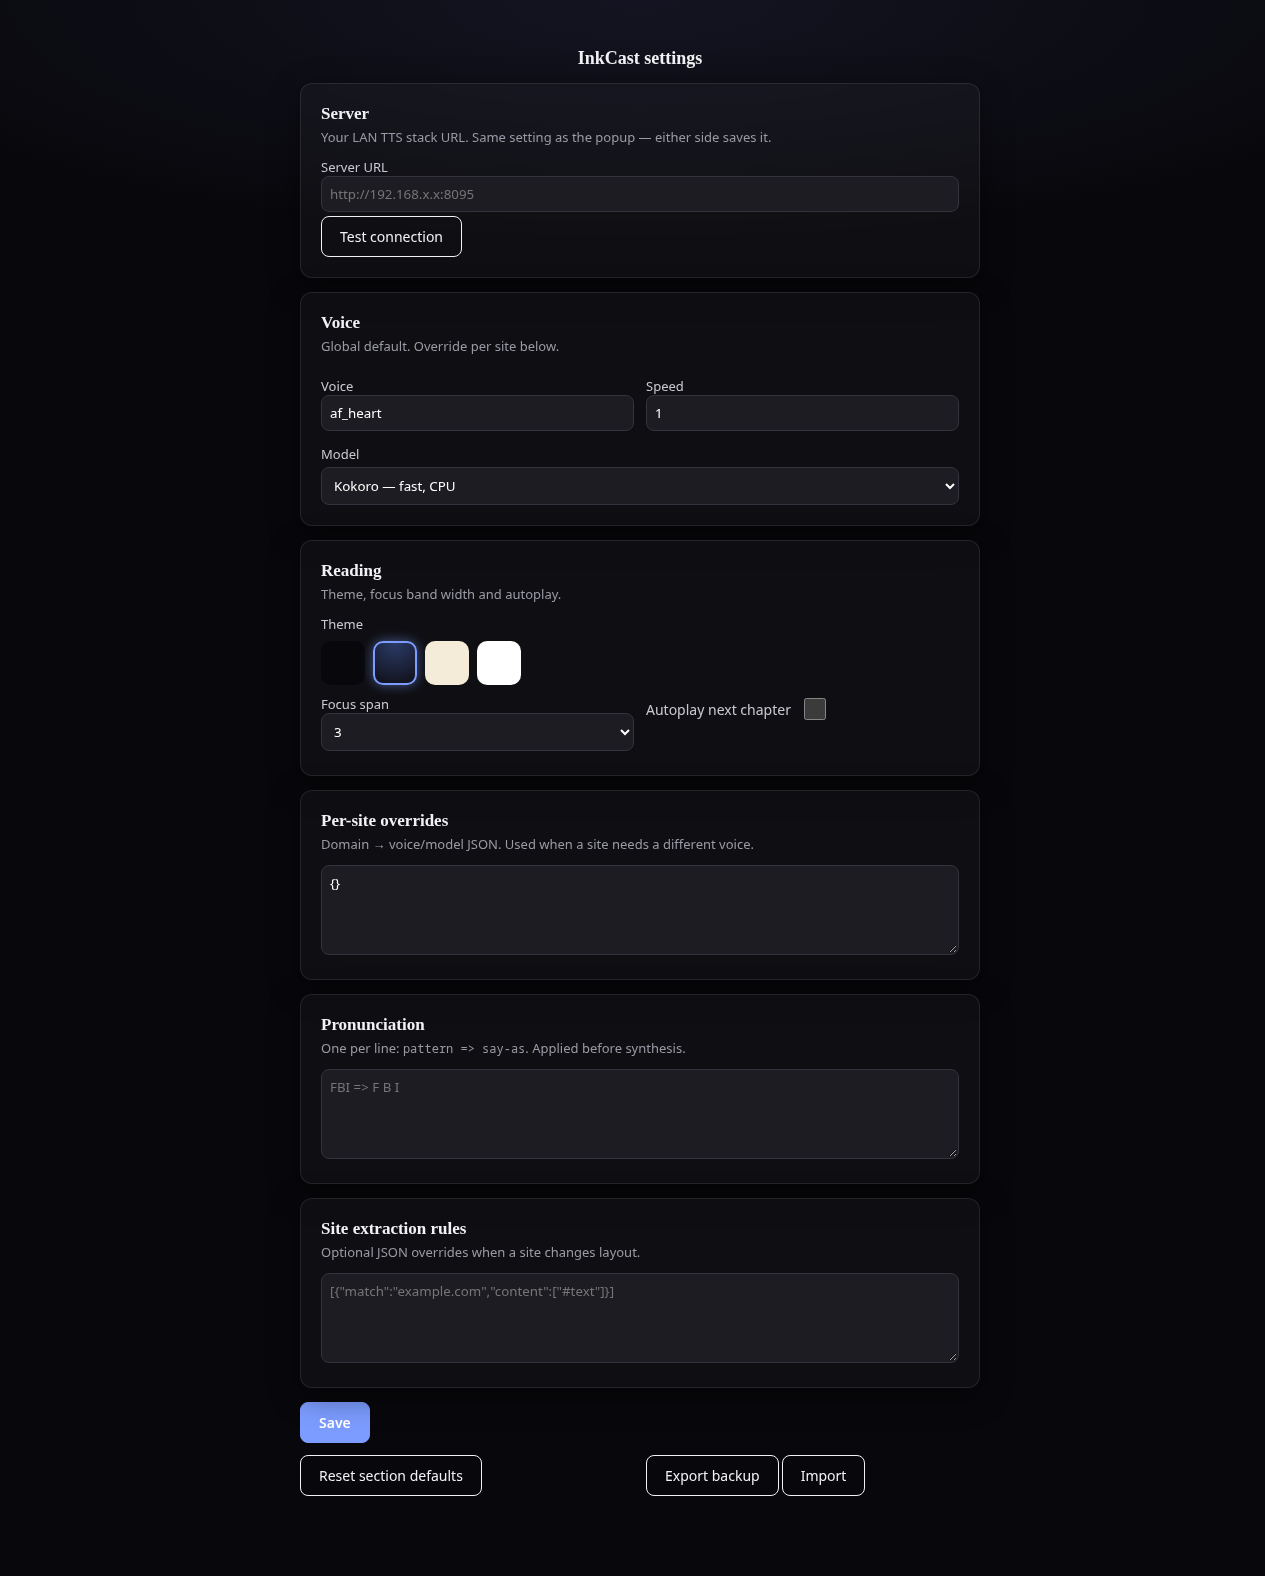
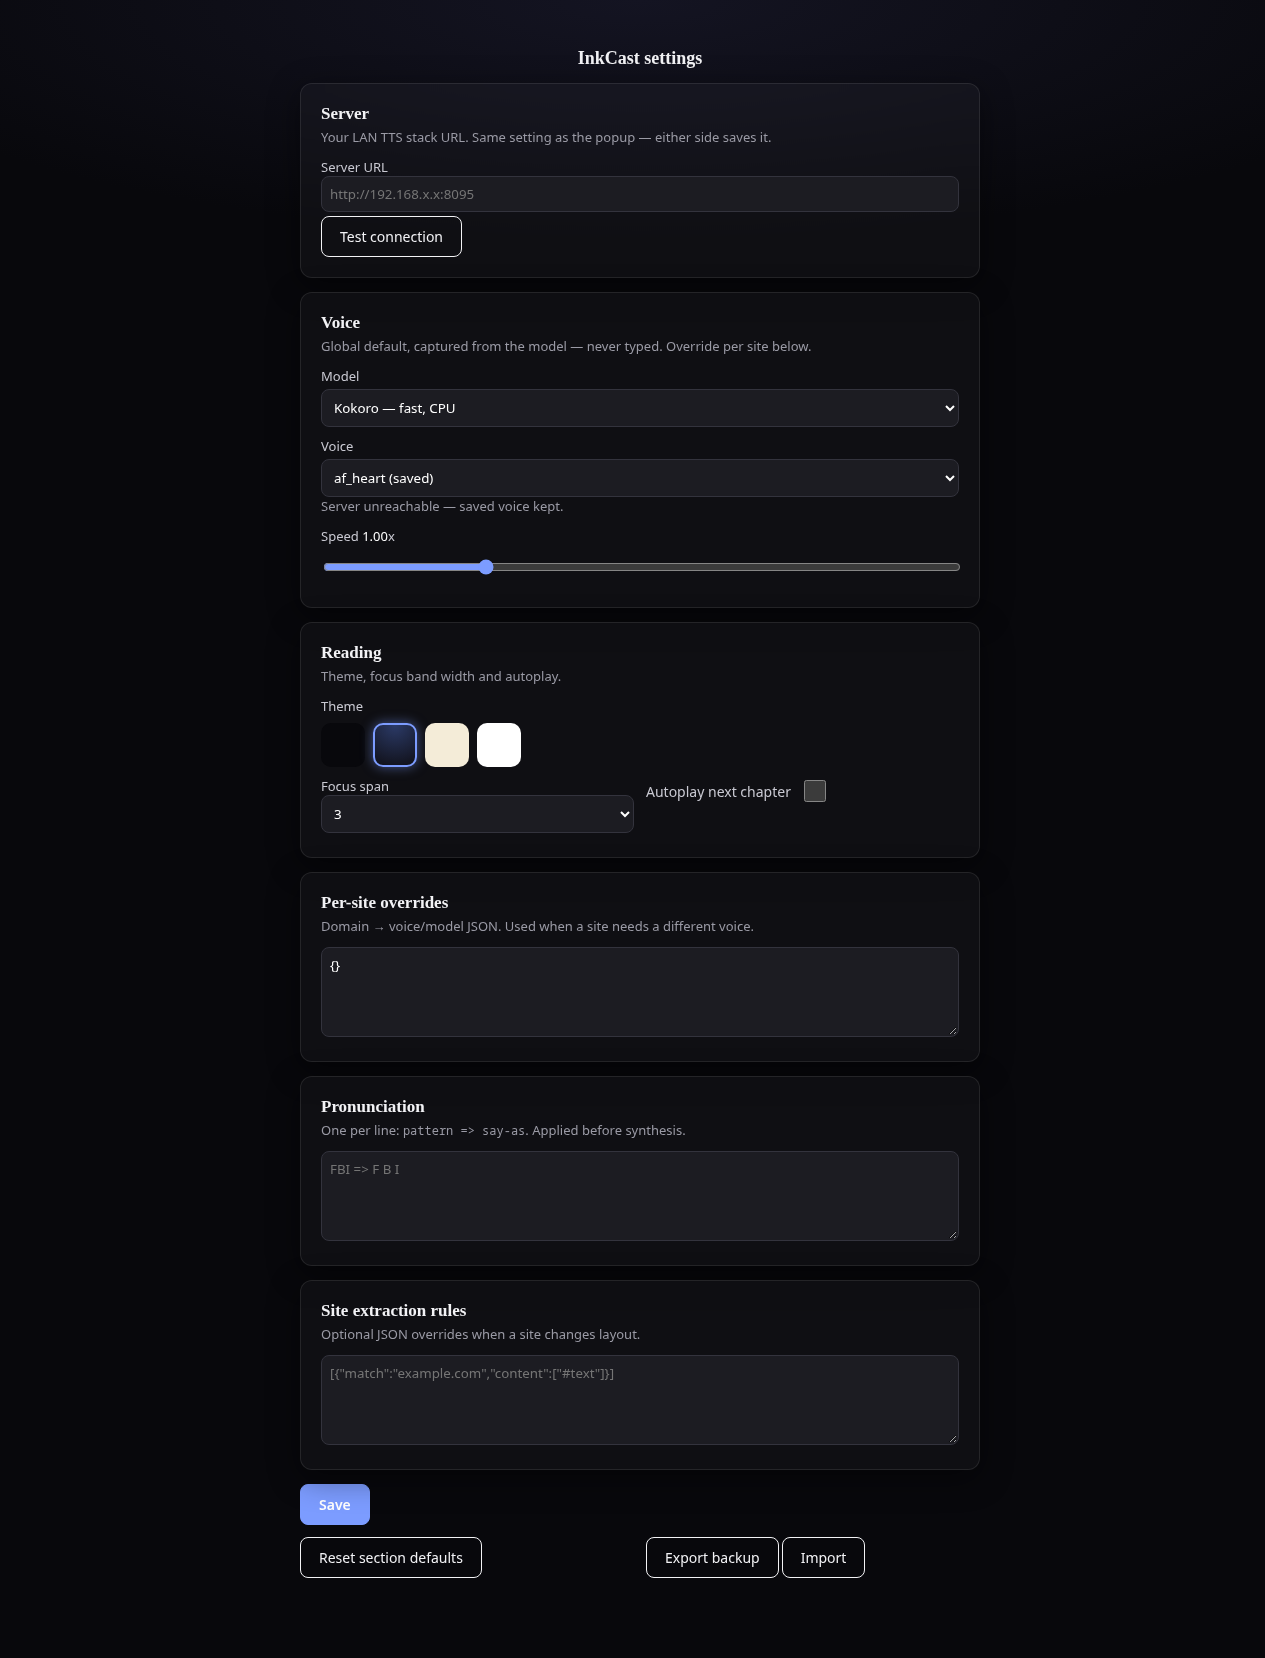
feat: voices from the model, speed slider, dead-UI purge
Options voice dropdown populated from GET /voices (engine
packs, filtered per model, offline-safe fallback); speed is a
live slider. Removed unwired karaoke UI, wired follow pill,
per-site voices at BOOT, pron dict end-to-end with cache
versioning, chapter nav buttons in bar. E2E green incl. 7s
auto-advance; 29 vitest + voices test green.

diff --git a/extension/entrypoints/options/main.ts b/extension/entrypoints/options/main.ts
@@ -11,6 +11,8 @@ h2 { font-size: 17px; margin: 28px 0 4px; }
 .card { background: rgba(255,255,255,0.03); border: 1px solid rgba(255,255,255,0.09); border-radius: 12px; padding: 20px; margin: 14px 0; backdrop-filter: blur(12px); -webkit-backdrop-filter: blur(12px); box-shadow: 0 8px 32px rgba(0,0,0,0.45); }
 label { display: block; font-size: 13px; margin: 10px 0 4px; color: #c9c9d2; font-family: system-ui, sans-serif; }
 input[type=text], input[type=number], select, textarea { width: 100%; box-sizing: border-box; background: #1c1c22; color: #fff; border: 1px solid #33333d; border-radius: 8px; padding: 8px; font-family: system-ui, sans-serif; }
+input[type=range] { width: 100%; accent-color: #7c9cff; height: 32px; }
+#speedval { font-variant-numeric: tabular-nums; color: #fff; }
 input[type=checkbox] { width: 22px; height: 22px; accent-color: #7c9cff; vertical-align: middle; }
 .check { display: flex; gap: 10px; align-items: center; font-size: 14px; font-family: system-ui, sans-serif; }
 .row { display: grid; grid-template-columns: 1fr 1fr; gap: 12px; }
@@ -42,16 +44,19 @@ async function main(): Promise<void> {
       <div class="row"><div><button id="testserver" class="ghost">Test connection</button></div><div><span id="srvstatus"></span></div></div>
     </div>
     <div class="card"><h2>Voice</h2>
-      <p class="sub">Global default. Override per site below.</p>
-      <div class="row">
-        <div><label>Voice<input id="voice" type="text" value="${esc(s.voice)}" /></div>
-        <div><label>Speed<input id="speed" type="number" step="0.1" min="0.5" max="2" value="${esc(s.speed)}" /></div>
-      </div>
+      <p class="sub">Global default, captured from the model — never typed. Override per site below.</p>
       <label>Model</label>
       <select id="model">
         <option value="kokoro"${s.model === 'kokoro' ? ' selected' : ''}>Kokoro — fast, CPU</option>
         <option value="chatterbox"${s.model === 'chatterbox' ? ' selected' : ''}>Chatterbox — expressive, GPU</option>
       </select>
+      <label>Voice</label>
+      <select id="voice">
+        <option value="${esc(s.voice)}" selected>${esc(s.voice)} (saved)</option>
+      </select>
+      <p class="sub" id="voicenote">Loading voices from the server…</p>
+      <label>Speed <span id="speedval">${esc(s.speed ?? 1)}</span>x</label>
+      <input id="speed" type="range" step="0.05" min="0.5" max="2.5" value="${esc(s.speed ?? 1)}" />
     </div>
     <div class="card"><h2>Reading</h2>
       <p class="sub">Theme, focus band width and autoplay.</p>
@@ -93,6 +98,60 @@ async function main(): Promise<void> {
     okEl.style.color = '#ff9d9d';
     okEl.textContent = line;
   }
+  // Voices captured from the model itself: list live, filtered by model.
+  // If the server is unreachable the saved value stays selectable.
+  const voiceSel = document.getElementById('voice') as HTMLSelectElement;
+  const modelSel = document.getElementById('model') as HTMLSelectElement;
+  const note = document.getElementById('voicenote')!;
+  async function refreshVoices(): Promise<void> {
+    const model = modelSel.value;
+    const keep = voiceSel.value || s.voice;
+    try {
+      const base = (document.getElementById('serverurl') as HTMLInputElement).value.trim().replace(/\/$/, '')
+        || s.serverUrl.replace(/\/$/, '');
+      if (!base) throw new Error('no server URL');
+      const r = await fetch(`${base}/voices`);
+      if (!r.ok) throw new Error(`HTTP ${r.status}`);
+      const j = await r.json() as { kokoro?: string[]; chatterbox?: string[] };
+      const list = (model === 'kokoro' ? j.kokoro : j.chatterbox) ?? [];
+      voiceSel.innerHTML = '';
+      const names = list.length > 0 ? list : [keep || 'af_heart'];
+      for (const n of names) {
+        const o = document.createElement('option');
+        o.value = n;
+        o.textContent = n;
+        if (n === keep) o.selected = true;
+        voiceSel.appendChild(o);
+      }
+      if (!names.includes(keep) && keep) {
+        const o = document.createElement('option');
+        o.value = keep;
+        o.textContent = `${keep} (saved)`;
+        o.selected = true;
+        voiceSel.appendChild(o);
+      }
+      note.textContent = list.length > 0
+        ? `${list.length} voice${list.length === 1 ? '' : 's'} from the model.`
+        : 'Server unreachable — saved voice kept.';
+    } catch {
+      note.textContent = 'Server unreachable — saved voice kept.';
+      if (![...voiceSel.options].some((o) => o.value === keep)) {
+        const o = document.createElement('option');
+        o.value = keep;
+        o.textContent = `${keep} (saved)`;
+        o.selected = true;
+        voiceSel.appendChild(o);
+      }
+    }
+  }
+  modelSel.onchange = () => void refreshVoices();
+  void refreshVoices();
+  // Speed slider with live value.
+  const speedEl = document.getElementById('speed') as HTMLInputElement;
+  const speedVal = document.getElementById('speedval')!;
+  const paintSpeed = () => { speedVal.textContent = parseFloat(speedEl.value).toFixed(2); };
+  speedEl.oninput = paintSpeed;
+  paintSpeed();
   document.getElementById('save')!.onclick = async () => {
     // Validation-first: block save naming the offending line.
     let perSite: ServerSettings['perSite'] = {};
@@ -107,7 +166,7 @@ async function main(): Promise<void> {
       fail('Speed must be 0.5–2.5.');
       return;
     }
-    const voice = (document.getElementById('voice') as HTMLInputElement).value.trim();
+    const voice = (document.getElementById('voice') as HTMLSelectElement).value.trim();
     if (!/^[a-z0-9_+-]{1,64}$/i.test(voice || DEFAULT_SETTINGS.voice)) {
       fail('Voice has illegal characters.');
       return;

diff --git a/tts-stack/orchestrator/api.py b/tts-stack/orchestrator/api.py
@@ -56,6 +56,30 @@ def emit(doc: str, typ: str, **data) -> None:
     rings[doc].append({"id": cursors[doc], "type": typ, "doc": doc, **data})
 
 
+@app.get("/voices")
+def voices():
+    """Voices captured from the model itself (never typed).
+    Kokoro: voice packs present on the engine. Chatterbox: server
+    default voice (per-request reference-audio is a future flow)."""
+    import urllib.request as _u
+    kokoro: list[str] = []
+    try:
+        eng = os.environ.get("KOKORO_URL", "http://kokoro:8880").rstrip("/")
+        with _u.urlopen(eng + "/v1/voices", timeout=5) as r:
+            data = json.load(r)
+        for v in data.get("voices", []):
+            name = v.get("name", "") if isinstance(v, dict) else str(v)
+            if name.startswith("kokoro-voice-"):
+                short = name[len("kokoro-voice-"):]
+                if short.endswith(".gguf"):
+                    short = short[:-5]
+                if short and short not in kokoro:
+                    kokoro.append(short)
+    except Exception:
+        pass  # engine warming: options UI falls back to the saved value
+    return {"kokoro": sorted(kokoro), "chatterbox": ["default"]}
+
+
 @app.get("/health")
 def health():
     try:

diff --git a/tts-stack/orchestrator/tests/test_queue.py b/tts-stack/orchestrator/tests/test_queue.py
@@ -85,3 +85,24 @@ def test_tap_returns_202_shape():
     r = c.post("/tap", json={"doc_id": "d2", "idx": 10})
     assert r.status_code == 200
     assert "queued" in r.json() and "position" in r.json()
+
+
+def test_voices_lists_engine_voices():
+    from fastapi.testclient import TestClient
+    from orchestrator import api as A
+    c = TestClient(A.app)
+    r = c.get("/voices")
+    assert r.status_code == 200
+    body = r.json()
+    assert "kokoro" in body and "chatterbox" in body
+    # chatterbox is always the server default voice
+    assert body["chatterbox"] == ["default"]
+    assert isinstance(body["kokoro"], list)
+    # live-engine coverage: real packs captured from the model itself
+    import urllib.request
+    try:
+        live = urllib.request.urlopen("http://127.0.0.1:8095/voices", timeout=5)
+        import json as _j
+        assert "af_heart" in _j.load(live)["kokoro"]
+    except Exception:
+        pass  # engine warming: shape asserted above
